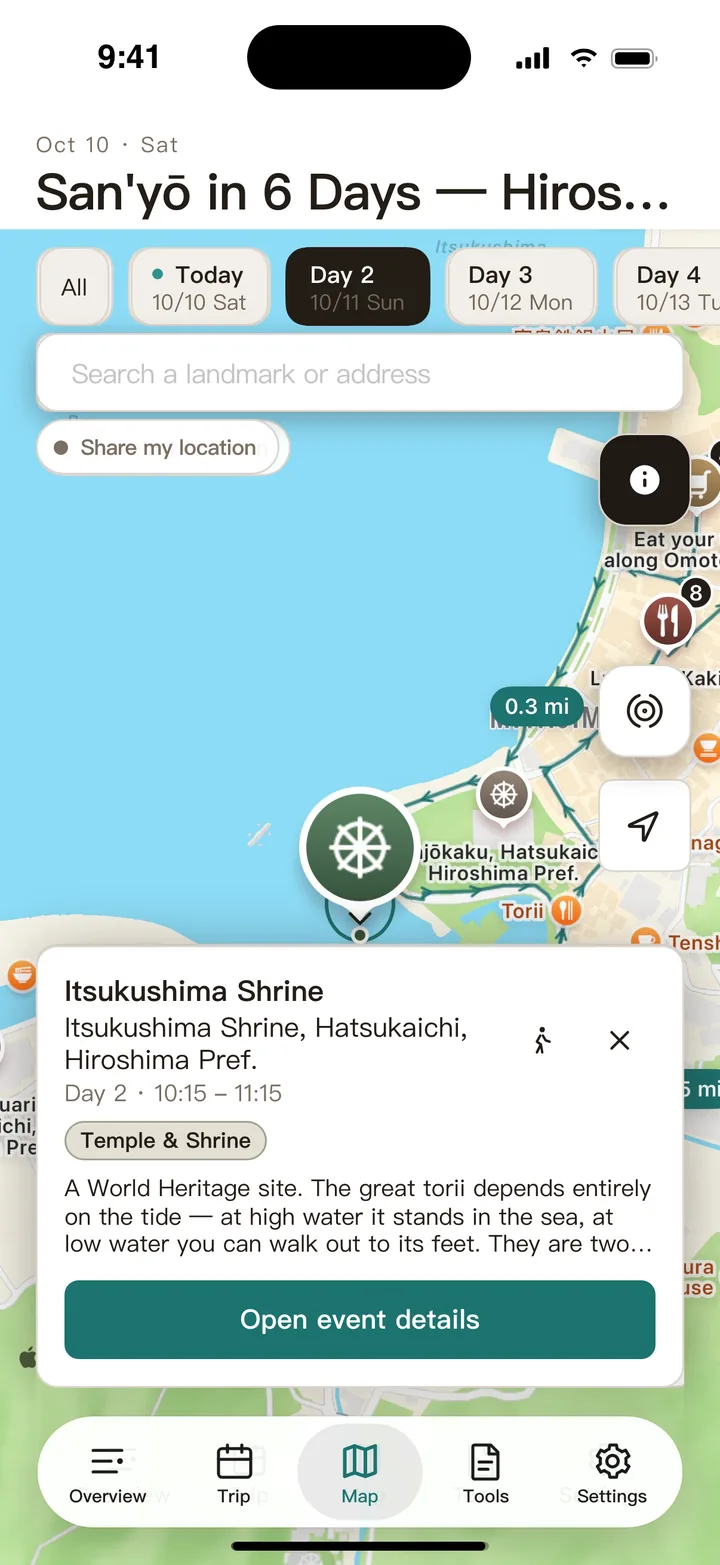
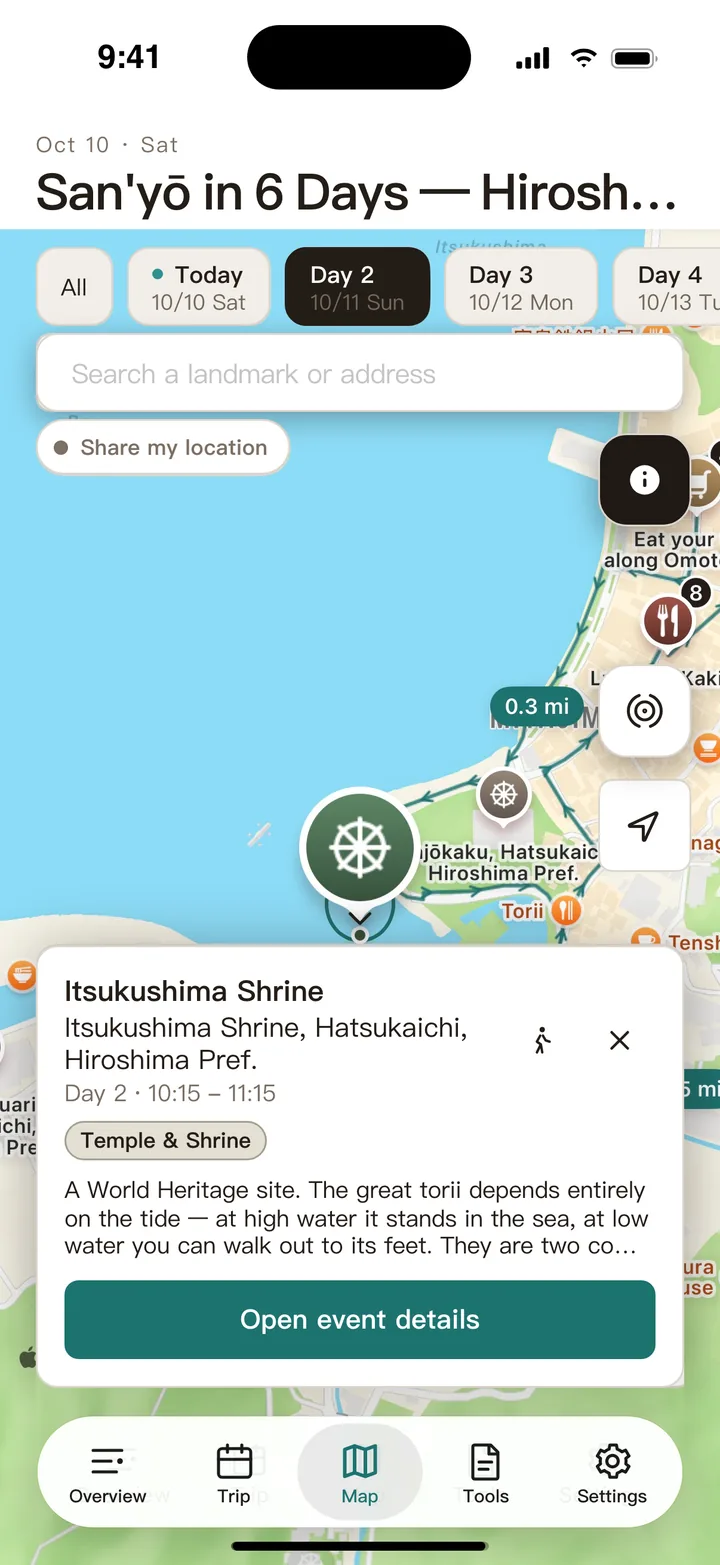
en and ja map screens on their own map captures — English and Japanese labels, miles for English — and Japanese day chips read 2 日目 like the app
Claude-Session: https://claude.ai/code/session_01R7HrfiyvX9BaLZm1eWadWr

diff --git a/screens/map.js b/screens/map.js
@@ -67,7 +67,6 @@ const chips = [`<div class="chip all"><b>${S.all}</b></div>`].concat(Array.from(
   return `<div class="chip${n === dayNo ? ' on' : ''}"><b>${isToday ? '<i></i>' : ''}${isToday ? t.today : dayLabel(n)}</b>
     <span>${t.shortDate(dt.getMonth() + 1, dt.getDate())} ${t.weekday[dt.getDay()]}</span></div>`;
 })).join('');
-if (params.get('ts')) document.head.insertAdjacentHTML('beforeend', `<style>.title{letter-spacing:${params.get("ts")}px;word-spacing:${params.get("ws")||0}px}</style>`);
 d.insertAdjacentHTML('beforeend', `<div class="chips">${chips}</div>
   <div class="search">${S.search}</div>
   <div class="live"><i></i>${S.live}</div>

diff --git a/screens/map.css b/screens/map.css
@@ -120,3 +120,7 @@ html[lang="ja"] .c-notes { letter-spacing: -.75px; }
 html[lang="ja"] .c-sub { letter-spacing: -.55px; }
 html[lang="ja"] .c-note { letter-spacing: -.32px; }
 .mdot { margin: 0 -1.75px; }
+/* 日文 16pt 那一行：基準圖的卡片矮 1pt、字面低 1pt（Hiragino 的行高跟 SF 的 lineHeight 不同） */
+html[lang="ja"] .n-man { line-height: 18.09px; position: relative; top: 1px; }
+/* 描述那一段（UITextView）的字面比同樣行高的 UILabel 低約 1pt——三語基準圖都一樣 */
+.c-notes { position: relative; top: .7px; }

diff --git a/screens/chrome.js b/screens/chrome.js
@@ -34,7 +34,7 @@ const STRINGS = {
   },
   ja: {
     tabs: ['概要', '旅行', 'マップ', 'ツール', '設定'],
-    today: '今日', day: n => `${n}日目`, allDay: '終日',
+    today: '今日', day: n => `${n} 日目`, allDay: '終日',
     weekday: ['日', '月', '火', '水', '木', '金', '土'],
     monthDay: (m, d) => `${m}月${d}日`, shortDate: (m, d) => `${m}/${d}`,
     minutes: m => `${m} 分`, hours: h => `${h} 時間`, hm: (h, m) => `${h} 時間 ${m} 分`,
